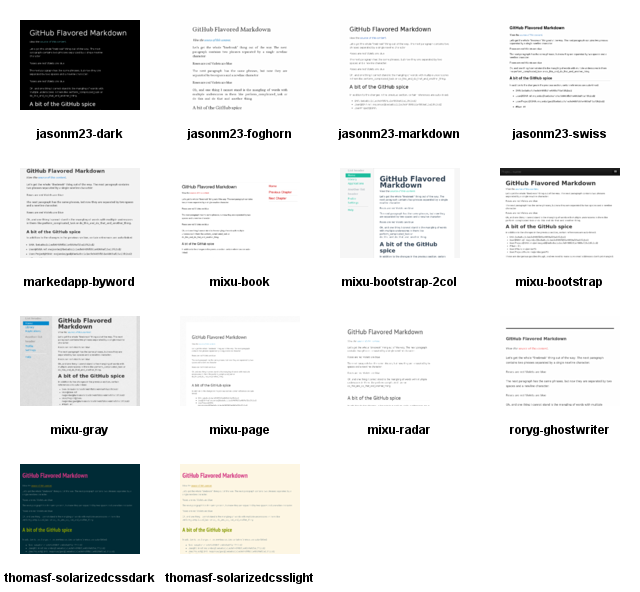
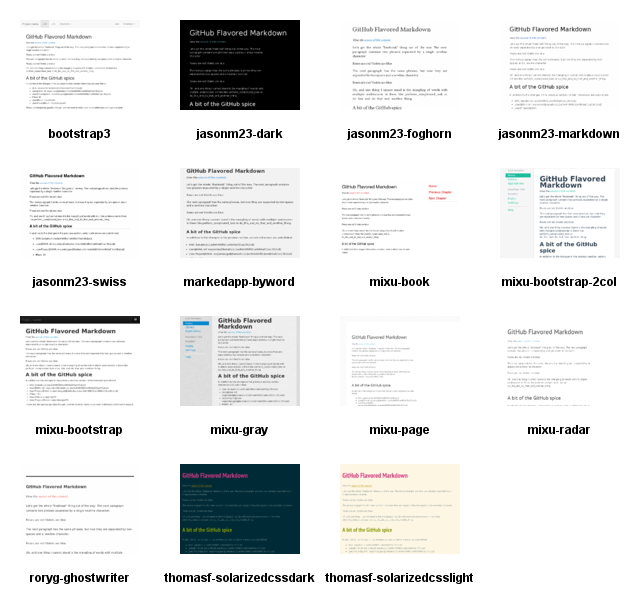
Update readme, update montage

diff --git a/output/menu.html b/output/menu.html
@@ -41,6 +41,8 @@ p {
   <a href="thomasf-solarizedcsslight/index.html" target="content">thomasf-solarizedcsslight</a>
 
   <a href="thomasf-solarizedcssdark/index.html" target="content">thomasf-solarizedcssdark</a>
+
+  <a href="bootstrap3/index.html" target="content">bootstrap3</a>
 </p>
 
 </body>

diff --git a/readme.md b/readme.md
@@ -38,7 +38,9 @@ Now edit the files `./my-layout/page.html` and run:
 
 ## What's new in v1.2.x
 
-Code syntax highlighting has been reworked so that syntax highlighters have become pluggable. See the relevant section below on how to use the new system.
+`v1.2.0`: Code syntax highlighting has been reworked so that syntax highlighters have become pluggable. See the relevant section below on how to use the new system.
+
+`v1.2.1`: added the `bootstrap3` style, thanks @MrJuliuss!
 
 ## Just using the stylesheets
 
